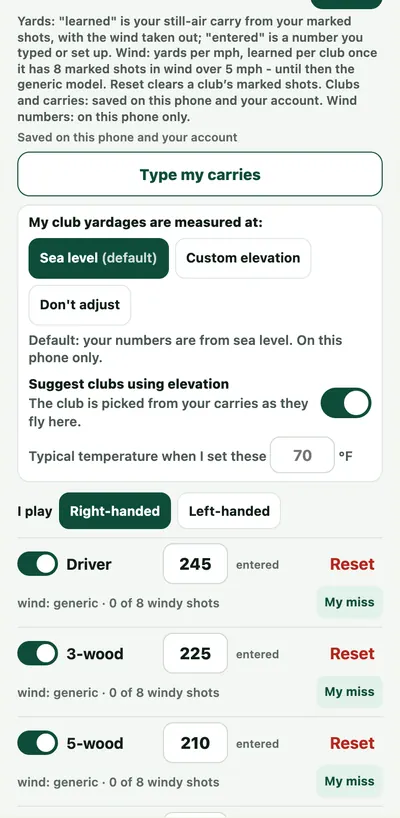
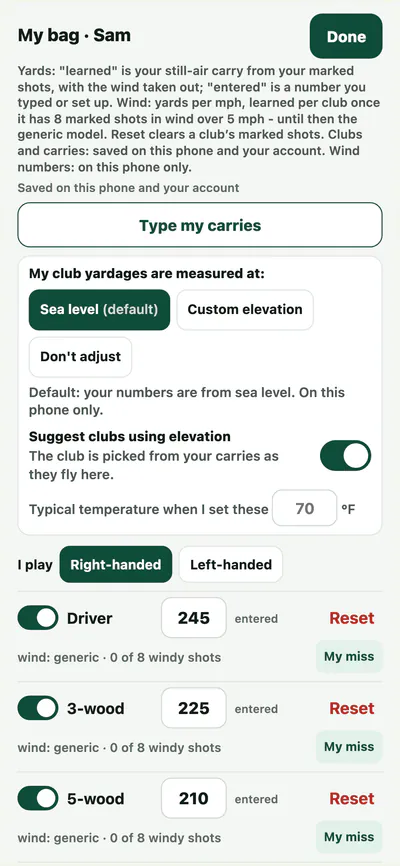
website-e: re-capture four feature-card screens from release-205 (hazards, range, my bag, weekly code)
Four homepage cards showed soft or old screens. Each is now a fresh capture of the
2.0.5 web app code (release-205, 42ec9711) rendered in headless Chrome at 390x844,
deviceScaleFactor 3 (1170x2532), on the repo's own Firebase stand-in and IAP stand-in
(Pro active) - nothing live, no credentials. Demo golfers Sam, Josh, Bob, Paul; no
amounts, no "Test" on screen.

  #3  Play · Know what you can carry.   hazards: the current light Hazards sheet over the
      GPS map (Talking Stick South hole 8, the app's own GolfAPI hazard points; reach /
      carry rows and lay-ups), was the old dark sheet.
  #24 Get better · Practice what costs you.   range: the light Range with Today's drill,
      Range · Sam, three typed 7-iron carries, was the dark sheet.
  #6  Play · Your real carries.   my-bag: My bag · Sam with its title, was cropped below
      "My bag · Test".
  #13 Your group · Same game. Same code. Every week.   weekly-code: Home with the Tuesday
      weekly card at Papago and its join code, sharp, was a 295 px poster.

Each has the two sizes the cards use (<key>-400.webp, <key>-1170.webp); hardpan-home.html
points at them with the new width/height and alt text. The older files stay in
media/screens/ (hazards-786, range-786, my-bag-786, weekly-code-295, and the three old
-400 files as <key>-400-superseded.webp) and nothing serves them; the new
media/screens/manifest.json lists all 25 screens, where the four came from, and marks the
[…]

diff --git a/hardpan-home.html b/hardpan-home.html
@@ -295,7 +295,7 @@
     <div class="grp" id="g-play">
         <div class="ghd"><h2>Play</h2><span class="gn">6 &middot; swipe &rarr;</span><span class="arrows"><button type="button" class="ga" data-dir="-1" aria-label="Play: earlier cards">&lsaquo;</button><button type="button" class="ga" data-dir="1" aria-label="Play: more cards">&rsaquo;</button></span></div>
         <p class="gln">GPS that knows the course, and your clubs.</p>
-        <ul class="row" aria-label="Play features"><li class="fc" id="f-gps" data-key="gps"><div class="cap"><span class="eb">GPS</span> <span class="clipchip">&#9654; clip 0:03</span><h3>Every yard. Every hole.</h3><p>Front, middle and back of every green on a real satellite map.</p></div><button type="button" class="ph" data-open="gps" aria-label="See Every yard. Every hole full screen"><span class="s clipslot"><img src="/media/screens/gps-400.webp" srcset="/media/screens/gps-400.webp 400w, /media/screens/gps-886.webp 886w" sizes="(max-width:700px) 200px, 206px" width="886" height="1920" loading="lazy" decoding="async" alt="The HardPan GPS map on a par 4: 215 yards to the middle of the green, with front and back numbers over the satellite picture."><video muted playsinline preload="none" data-src="/media/clips/gps.mp4" aria-hidden="true"></video><span class="cb">&#9654; 0:03</span></span></button></li><li class="fc" id="f-plays-like" data-key="plays-like"><div class="cap"><span class="eb">PLAYS LIKE</span><h3>Hit the number it plays.</h3><p>Wind and elevation in one yardage, plus an aim tip from your own misses.</p></div><button type="button" class="ph" data-open="plays-like" aria-label="See Hit the number it plays full screen"><span class="s"><img src="/media/screens/plays-like-400.webp" srcset="/media/screens/plays-like-400.webp 400w, /media/screens/plays-like-940.webp 940w" sizes="(max-width:700px) 200px, 206px" width="940" height="2040" loading="lazy" decoding="async" alt="The GPS map on hole 14 at Papago: 150 to the middle, Plays like 155 with an 8-iron, and the aim tip 8 yards left."></span></button></li><li class="fc" id="f-hazards" data-key="hazards"><div class="cap"><span class="eb">HAZARDS</span><h3>Know what you can carry.</h3><p>Reach and carry for every bunker, and where to lay up, from where you stand.</p></div><button type="button" class="ph" data-open="hazards" aria-label="See Know what you can carry full screen"><span class="s"><img src="/media/screens/hazards-400.webp" srcset="/media/screens/hazards-400.webp 400w, /media/screens/hazards-786.webp 786w" sizes="(max-width:700px) 200px, 206px" width="786" height="1704" loading="lazy" decoding="async" alt="The Hazards sheet on hole 10: reach and carry yards for each bunker, and lay-up distances with a club for each."></span></button></li><li class="fc" id="f-best-miss" data-key="best-miss"><div class="cap"><span class="eb">BEST MISS</span><h3>Miss on the right side.</h3><p>Green slope from lidar, and the safe side to miss.</p></div><button type="button" class="ph" data-open="best-miss" aria-label="See Miss on the right side full screen"><span class="s"><img src="/media/screens/best-miss-400.webp" srcset="/media/screens/best-miss-400.webp 400w, /media/screens/best-miss-940.webp 940w" sizes="(max-width:700px) 200px, 206px" width="940" height="2040" loading="lazy" decoding="async" alt="The GPS map on a par 3 with the green’s slope arrows on, and Best miss: short."></span></button></li><li class="fc" id="f-offline" data-key="offline"><div class="cap"><div class="fsoon">COMING SOON · iPHONE 2.0.5</div><span class="eb">OFFLINE MAPS</span><h3>No signal? Still every yard.</h3><p>Save a course before you go. The map works with zero bars.</p></div><button type="button" class="ph" data-open="offline" aria-label="See No signal? Still every yard full screen"><span class="s"><img src="/media/screens/offline-400.webp" srcset="/media/screens/offline-400.webp 400w, /media/screens/offline-780.webp 780w" sizes="(max-width:700px) 200px, 206px" width="780" height="1704" loading="lazy" decoding="async" alt="The course picker with a Download for offline button for Dobson Ranch Golf Course."></span></button></li><li class="fc" id="f-bag" data-key="my-bag"><div class="cap"><span class="eb">MY BAG</span><h3>Your real carries.</h3><p>Type your yardages once. HardPan picks the club from them.</p></div><button type="button" class="ph" data-open="my-bag" aria-label="See Your real carries full screen"><span class="s"><img src="/media/screens/my-bag-400.webp" srcset="/media/screens/my-bag-400.webp 400w, /media/screens/my-bag-786.webp 786w" sizes="(max-width:700px) 200px, 206px" width="786" height="1608" loading="lazy" decoding="async" alt="My bag: a carry yardage for each club, Driver 245, 3-wood 225, 5-wood 210, with a switch to keep each club in the bag."></span></button></li></ul>
+        <ul class="row" aria-label="Play features"><li class="fc" id="f-gps" data-key="gps"><div class="cap"><span class="eb">GPS</span> <span class="clipchip">&#9654; clip 0:03</span><h3>Every yard. Every hole.</h3><p>Front, middle and back of every green on a real satellite map.</p></div><button type="button" class="ph" data-open="gps" aria-label="See Every yard. Every hole full screen"><span class="s clipslot"><img src="/media/screens/gps-400.webp" srcset="/media/screens/gps-400.webp 400w, /media/screens/gps-886.webp 886w" sizes="(max-width:700px) 200px, 206px" width="886" height="1920" loading="lazy" decoding="async" alt="The HardPan GPS map on a par 4: 215 yards to the middle of the green, with front and back numbers over the satellite picture."><video muted playsinline preload="none" data-src="/media/clips/gps.mp4" aria-hidden="true"></video><span class="cb">&#9654; 0:03</span></span></button></li><li class="fc" id="f-plays-like" data-key="plays-like"><div class="cap"><span class="eb">PLAYS LIKE</span><h3>Hit the number it plays.</h3><p>Wind and elevation in one yardage, plus an aim tip from your own misses.</p></div><button type="button" class="ph" data-open="plays-like" aria-label="See Hit the number it plays full screen"><span class="s"><img src="/media/screens/plays-like-400.webp" srcset="/media/screens/plays-like-400.webp 400w, /media/screens/plays-like-940.webp 940w" sizes="(max-width:700px) 200px, 206px" width="940" height="2040" loading="lazy" decoding="async" alt="The GPS map on hole 14 at Papago: 150 to the middle, Plays like 155 with an 8-iron, and the aim tip 8 yards left."></span></button></li><li class="fc" id="f-hazards" data-key="hazards"><div class="cap"><span class="eb">HAZARDS</span><h3>Know what you can carry.</h3><p>Reach and carry for every bunker, and where to lay up, from where you stand.</p></div><button type="button" class="ph" data-open="hazards" aria-label="See Know what you can carry full screen"><span class="s"><img src="/media/screens/hazards-400.webp" srcset="/media/screens/hazards-400.webp 400w, /media/screens/hazards-1170.webp 1170w" sizes="(max-width:700px) 200px, 206px" width="1170" height="2532" loading="lazy" decoding="async" alt="The Hazards sheet on hole 8 at Talking Stick, over the GPS map: reach and carry yards for the fairway bunkers left and right, and lay-up distances with a club for each."></span></button></li><li class="fc" id="f-best-miss" data-key="best-miss"><div class="cap"><span class="eb">BEST MISS</span><h3>Miss on the right side.</h3><p>Green slope from lidar, and the safe side to miss.</p></div><button type="button" class="ph" data-open="best-miss" aria-label="See Miss on the right side full screen"><span class="s"><img src="/media/screens/best-miss-400.webp" srcset="/media/screens/best-miss-400.webp 400w, /media/screens/best-miss-940.webp 940w" sizes="(max-width:700px) 200px, 206px" width="940" height="2040" loading="lazy" decoding="async" alt="The GPS map on a par 3 with the green’s slope arrows on, and Best miss: short."></span></button></li><li class="fc" id="f-offline" data-key="offline"><div class="cap"><div class="fsoon">COMING SOON · iPHONE 2.0.5</div><span class="eb">OFFLINE MAPS</span><h3>No signal? Still every yard.</h3><p>Save a course before you go. The map works with zero bars.</p></div><button type="button" class="ph" data-open="offline" aria-label="See No signal? Still every yard full screen"><span class="s"><img src="/media/screens/offline-400.webp" srcset="/media/screens/offline-400.webp 400w, /media/screens/offline-780.webp 780w" sizes="(max-width:700px) 200px, 206px" width="780" height="1704" loading="lazy" decoding="async" alt="The course picker with a Download for offline button for Dobson Ranch Golf Course."></span></button></li><li class="fc" id="f-bag" data-key="my-bag"><div class="cap"><span class="eb">MY BAG</span><h3>Your real carries.</h3><p>Type your yardages once. HardPan picks the club from them.</p></div><button type="button" class="ph" data-open="my-bag" aria-label="See Your real carries full screen"><span class="s"><img src="/media/screens/my-bag-400.webp" srcset="/media/screens/my-bag-400.webp 400w, /media/screens/my-bag-1170.webp 1170w" sizes="(max-width:700px) 200px, 206px" width="1170" height="2532" loading="lazy" decoding="async" alt="My bag for Sam: a carry yardage for each club, Driver 245, 3-wood 225, 5-wood 210, with a switch to keep each club in the bag and Type my carries."></span></button></li></ul>
         <div class="dots" aria-hidden="true"><i class="on"></i><i></i><i></i><i></i><i></i><i></i></div>
     </div>
     <div class="wrap trywrap"><section class="try" id="try-gps" aria-labelledby="try-gps-h">
@@ -343,7 +343,7 @@
     <div class="grp" id="g-group">
         <div class="ghd"><h2>Your group</h2><span class="gn">5 &middot; swipe &rarr;</span><span class="arrows"><button type="button" class="ga" data-dir="-1" aria-label="Your group: earlier cards">&lsaquo;</button><button type="button" class="ga" data-dir="1" aria-label="Your group: more cards">&rsaquo;</button></span></div>
         <p class="gln">The same friends, week after week.</p>
-        <ul class="row" aria-label="Your group features"><li class="fc" id="f-weekly" data-key="weekly-code"><div class="cap"><span class="eb">WEEKLY GAME</span><h3>Same game. Same code. Every week.</h3><p>Your weekly game keeps one join code and starts in one tap.</p></div><button type="button" class="ph" data-open="weekly-code" aria-label="See Same game. Same code. Every week full screen"><span class="s"><img src="/media/screens/weekly-code-295.webp" srcset="/media/screens/weekly-code-295.webp 295w" sizes="(max-width:700px) 200px, 206px" width="295" height="640" loading="lazy" decoding="async" alt="Home with the Tuesday weekly game at Papago, a Start this week button, and its join code that stays the same every week."></span></button></li><li class="fc" id="f-chat" data-key="chat"><div class="cap"><span class="eb">ROUND CHAT</span><h3>Talk to the round.</h3><p>Chat with your group without leaving the map.</p></div><button type="button" class="ph" data-open="chat" aria-label="See Talk to the round full screen"><span class="s"><img src="/media/screens/chat-400.webp" srcset="/media/screens/chat-400.webp 400w, /media/screens/chat-940.webp 940w" sizes="(max-width:700px) 200px, 206px" width="940" height="2040" loading="lazy" decoding="async" alt="Round chat over the GPS map: messages from Ray, Joe and Marcus, with birdies and the skin on 12 posted in the chat."></span></button></li><li class="fc" id="f-play-again" data-key="play-again"><div class="cap"><span class="eb">PLAY AGAIN</span><h3>Same group? One tap.</h3><p>Start your last group’s round again, right from Home.</p></div><button type="button" class="ph" data-open="play-again" aria-label="See Same group? One tap full screen"><span class="s"><img src="/media/screens/play-again-400.webp" srcset="/media/screens/play-again-400.webp 400w, /media/screens/play-again-786.webp 786w" sizes="(max-width:700px) 200px, 206px" width="786" height="1704" loading="lazy" decoding="async" alt="Home with a Play again card for today at Papago Golf Club and a Start button."></span></button></li><li class="fc" id="f-trip" data-key="trip"><div class="cap"><span class="eb">TRIPS</span><h3>One board for the whole trip.</h3><p>Every day of a golf trip on one leaderboard.</p></div><button type="button" class="ph" data-open="trip" aria-label="See One board for the whole trip full screen"><span class="s"><img src="/media/screens/trip-400.webp" srcset="/media/screens/trip-400.webp 400w, /media/screens/trip-786.webp 786w" sizes="(max-width:700px) 200px, 206px" width="786" height="1704" loading="lazy" decoding="async" alt="The Road Trip page: one leaderboard across every day of a trip, with Start a New Trip and Open Trip."></span></button></li><li class="fc" id="f-history" data-key="history"><div class="cap"><span class="eb">HISTORY</span><h3>Every round you’ve played.</h3><p>Past rounds, scores and results, saved on your phone.</p></div><button type="button" class="ph" data-open="history" aria-label="See Every round you’ve played full screen"><span class="s"><img src="/media/screens/history-400.webp" srcset="/media/screens/history-400.webp 400w, /media/screens/history-786.webp 786w" sizes="(max-width:700px) 200px, 206px" width="786" height="1704" loading="lazy" decoding="async" alt="History: a past round at Dobson Ranch Golf Course with its golfers and final scores."></span></button></li></ul>
+        <ul class="row" aria-label="Your group features"><li class="fc" id="f-weekly" data-key="weekly-code"><div class="cap"><span class="eb">WEEKLY GAME</span><h3>Same game. Same code. Every week.</h3><p>Your weekly game keeps one join code and starts in one tap.</p></div><button type="button" class="ph" data-open="weekly-code" aria-label="See Same game. Same code. Every week full screen"><span class="s"><img src="/media/screens/weekly-code-400.webp" srcset="/media/screens/weekly-code-400.webp 400w, /media/screens/weekly-code-1170.webp 1170w" sizes="(max-width:700px) 200px, 206px" width="1170" height="2532" loading="lazy" decoding="async" alt="Home with the Tuesday weekly game at Papago, a Start this week button, and its join code that stays the same every week."></span></button></li><li class="fc" id="f-chat" data-key="chat"><div class="cap"><span class="eb">ROUND CHAT</span><h3>Talk to the round.</h3><p>Chat with your group without leaving the map.</p></div><button type="button" class="ph" data-open="chat" aria-label="See Talk to the round full screen"><span class="s"><img src="/media/screens/chat-400.webp" srcset="/media/screens/chat-400.webp 400w, /media/screens/chat-940.webp 940w" sizes="(max-width:700px) 200px, 206px" width="940" height="2040" loading="lazy" decoding="async" alt="Round chat over the GPS map: messages from Ray, Joe and Marcus, with birdies and the skin on 12 posted in the chat."></span></button></li><li class="fc" id="f-play-again" data-key="play-again"><div class="cap"><span class="eb">PLAY AGAIN</span><h3>Same group? One tap.</h3><p>Start your last group’s round again, right from Home.</p></div><button type="button" class="ph" data-open="play-again" aria-label="See Same group? One tap full screen"><span class="s"><img src="/media/screens/play-again-400.webp" srcset="/media/screens/play-again-400.webp 400w, /media/screens/play-again-786.webp 786w" sizes="(max-width:700px) 200px, 206px" width="786" height="1704" loading="lazy" decoding="async" alt="Home with a Play again card for today at Papago Golf Club and a Start button."></span></button></li><li class="fc" id="f-trip" data-key="trip"><div class="cap"><span class="eb">TRIPS</span><h3>One board for the whole trip.</h3><p>Every day of a golf trip on one leaderboard.</p></div><button type="button" class="ph" data-open="trip" aria-label="See One board for the whole trip full screen"><span class="s"><img src="/media/screens/trip-400.webp" srcset="/media/screens/trip-400.webp 400w, /media/screens/trip-786.webp 786w" sizes="(max-width:700px) 200px, 206px" width="786" height="1704" loading="lazy" decoding="async" alt="The Road Trip page: one leaderboard across every day of a trip, with Start a New Trip and Open Trip."></span></button></li><li class="fc" id="f-history" data-key="history"><div class="cap"><span class="eb">HISTORY</span><h3>Every round you’ve played.</h3><p>Past rounds, scores and results, saved on your phone.</p></div><button type="button" class="ph" data-open="history" aria-label="See Every round you’ve played full screen"><span class="s"><img src="/media/screens/history-400.webp" srcset="/media/screens/history-400.webp 400w, /media/screens/history-786.webp 786w" sizes="(max-width:700px) 200px, 206px" width="786" height="1704" loading="lazy" decoding="async" alt="History: a past round at Dobson Ranch Golf Course with its golfers and final scores."></span></button></li></ul>
         <div class="dots" aria-hidden="true"><i class="on"></i><i></i><i></i><i></i><i></i></div>
     </div>
     <div class="grp" id="g-organize">
@@ -355,7 +355,7 @@
     <div class="grp" id="g-better">
         <div class="ghd"><h2>Get better</h2><span class="gn">3 &middot; swipe &rarr;</span><span class="arrows"><button type="button" class="ga" data-dir="-1" aria-label="Get better: earlier cards">&lsaquo;</button><button type="button" class="ga" data-dir="1" aria-label="Get better: more cards">&rsaquo;</button></span></div>
         <p class="gln">See where your shots go, then practice that.</p>
-        <ul class="row" aria-label="Get better features"><li class="fc" id="f-strokes-gained" data-key="strokes-gained"><div class="cap"><span class="eb">STROKES GAINED</span><h3>See where shots go.</h3><p>Strokes Gained by area, and a practice card for what cost you most.</p></div><button type="button" class="ph" data-open="strokes-gained" aria-label="See See where shots go full screen"><span class="s"><img src="/media/screens/strokes-gained-400.webp" srcset="/media/screens/strokes-gained-400.webp 400w, /media/screens/strokes-gained-940.webp 940w" sizes="(max-width:700px) 200px, 206px" width="940" height="2040" loading="lazy" decoding="async" alt="My stats: a practice card for putting, and Strokes Gained against a 10 handicap, plus 1.9 shots a round."></span></button></li><li class="fc" id="f-range" data-key="range"><div class="cap"><span class="eb">RANGE</span><h3>Practice what costs you.</h3><p>Today’s drill from your last round, and every ball you mark.</p></div><button type="button" class="ph" data-open="range" aria-label="See Practice what costs you full screen"><span class="s"><img src="/media/screens/range-400.webp" srcset="/media/screens/range-400.webp 400w, /media/screens/range-786.webp 786w" sizes="(max-width:700px) 200px, 206px" width="786" height="1704" loading="lazy" decoding="async" alt="The Range sheet with today’s drill, a distance ladder, and club buttons to mark each ball."></span></button></li><li class="fc" id="f-ask-caddie" data-key="ask-caddie"><div class="cap"><div class="fsoon">COMING SOON</div><span class="eb">ASK CADDIE</span><h3>Ask what it plays.</h3><p>What it plays, what club, and what you hit here last time.</p></div><button type="button" class="ph" data-open="ask-caddie" aria-label="See Ask what it plays full screen"><span class="s fit" style="background:#1c3827"><img src="/media/screens/ask-caddie-400.webp" srcset="/media/screens/ask-caddie-400.webp 400w, /media/screens/ask-caddie-786.webp 786w" sizes="(max-width:700px) 200px, 206px" width="786" height="460" loading="lazy" decoding="async" alt="The Ask panel over the GPS map: What club?, Last time here?, and the answer Plays like 138 yards to the middle of the green."></span></button></li></ul>
+        <ul class="row" aria-label="Get better features"><li class="fc" id="f-strokes-gained" data-key="strokes-gained"><div class="cap"><span class="eb">STROKES GAINED</span><h3>See where shots go.</h3><p>Strokes Gained by area, and a practice card for what cost you most.</p></div><button type="button" class="ph" data-open="strokes-gained" aria-label="See See where shots go full screen"><span class="s"><img src="/media/screens/strokes-gained-400.webp" srcset="/media/screens/strokes-gained-400.webp 400w, /media/screens/strokes-gained-940.webp 940w" sizes="(max-width:700px) 200px, 206px" width="940" height="2040" loading="lazy" decoding="async" alt="My stats: a practice card for putting, and Strokes Gained against a 10 handicap, plus 1.9 shots a round."></span></button></li><li class="fc" id="f-range" data-key="range"><div class="cap"><span class="eb">RANGE</span><h3>Practice what costs you.</h3><p>Today’s drill from your last round, and every ball you mark.</p></div><button type="button" class="ph" data-open="range" aria-label="See Practice what costs you full screen"><span class="s"><img src="/media/screens/range-400.webp" srcset="/media/screens/range-400.webp 400w, /media/screens/range-1170.webp 1170w" sizes="(max-width:700px) 200px, 206px" width="1170" height="2532" loading="lazy" decoding="async" alt="The Range: today’s drill, an approach distance ladder, club buttons, Mark the ball, and this session’s 7-iron shots with their median carry."></span></button></li><li class="fc" id="f-ask-caddie" data-key="ask-caddie"><div class="cap"><div class="fsoon">COMING SOON</div><span class="eb">ASK CADDIE</span><h3>Ask what it plays.</h3><p>What it plays, what club, and what you hit here last time.</p></div><button type="button" class="ph" data-open="ask-caddie" aria-label="See Ask what it plays full screen"><span class="s fit" style="background:#1c3827"><img src="/media/screens/ask-caddie-400.webp" srcset="/media/screens/ask-caddie-400.webp 400w, /media/screens/ask-caddie-786.webp 786w" sizes="(max-width:700px) 200px, 206px" width="786" height="460" loading="lazy" decoding="async" alt="The Ask panel over the GPS map: What club?, Last time here?, and the answer Plays like 138 yards to the middle of the green."></span></button></li></ul>
         <div class="dots" aria-hidden="true"><i class="on"></i><i></i><i></i></div>
     </div>
 </section>

diff --git a/web_e_features_test.js b/web_e_features_test.js
@@ -114,9 +114,40 @@ describe('1. the 25 cards', () => {
             // the old tile ids that tests and links use stay on their feature
         });
         ['f-gps', 'f-say', 'f-group', 'f-games', 'f-results', 'f-tourney', 'f-weekly', 'f-chat', 'f-bag'].forEach((id) => assert.ok(ids.has(id), id + ' is gone'));
-        // a sharp screen: the large size is at least 2x a 390-wide phone's card (and every screen but one is)
+        // a sharp screen: the large size is at least 2x a 390-wide phone's card. RE-CAPTURE re-pin (Nov 10):
+        // every one of the 25 (was 24: the weekly-code card showed a 295 px poster until its re-capture).
         const wide = cards.filter((c) => Number(/\bwidth="(\d+)"/.exec(c.img)[1]) >= 780).length;
-        assert.ok(wide >= 24, 'only ' + wide + ' of 25 screens are 2x or sharper');
+        assert.equal(wide, 25, 'only ' + wide + ' of 25 screens are 2x or sharper');
+    });
+
+    // RE-CAPTURE (Nov 10): hazards, range, my-bag and weekly-code were re-shot from the 2.0.5 web app
+    // (release-205) in headless Chrome at 390x844 @3x - 1170x2532, light sheets, demo golfer Sam. The older
+    // files (a dark sheet, a cropped title, a 295 px poster; the three old -400 files as -400-superseded) stay in
+    // media/screens/ and nothing serves them;
+    // media/screens/manifest.json lists every screen and marks those files superseded.
+    test('the four re-captured screens are the 3x captures; the screens manifest lists all 25 and marks the old files unused', () => {
+        const manifest = JSON.parse(read('media/screens/manifest.json'));
+        assert.equal(manifest.folder, '/media/screens/');
+        assert.equal(manifest.screens.length, 25);
+        assert.deepEqual(manifest.screens.map((s) => s.key), cards.map((c) => c.key), 'the manifest lists the cards in page order');
+        ['hazards', 'range', 'my-bag', 'weekly-code'].forEach((k) => {
+            const c = cards.find((x) => x.key === k);
+            assert.match(c.img, new RegExp('src="/media/screens/' + k + '-400\\.webp" srcset="/media/screens/' + k + '-400\\.webp 400w, /media/screens/' + k + '-1170\\.webp 1170w"'), k + ': not the 400 + 1170 pair');
+            assert.match(c.img, /\bwidth="1170" height="2532"/, k + ': not a 390x844 @3x capture');
+            const m = manifest.screens.find((s) => s.key === k);
+            assert.ok(m && /release-205/.test(m.captured) && m.recaptured, k + ': the manifest does not say where it came from');
+            assert.deepEqual(m.files, ['/media/screens/' + k + '-400.webp', '/media/screens/' + k + '-1170.webp']);
+        });
+        manifest.screens.forEach((s) => s.files.forEach((f) => assert.ok(exists(f.slice(1)), f + ' is missing')));
+        // the superseded files: still here, listed, and served by no page
+        const old = ['/media/screens/hazards-400-superseded.webp', '/media/screens/hazards-786.webp', '/media/screens/my-bag-400-superseded.webp', '/media/screens/my-bag-786.webp', '/media/screens/range-400-superseded.webp', '/media/screens/range-786.webp', '/media/screens/weekly-code-295.webp'];
+        assert.deepEqual(manifest.superseded.map((s) => s.file).sort(), old);
+        manifest.superseded.forEach((s) => { assert.ok(exists(s.file.slice(1)), s.file + ' was deleted'); assert.deepEqual(s.used_on, []); assert.match(s.unused_since, /re-capture/); });
+        const pages = fs.readdirSync(ROOT).filter((f) => f.endsWith('.html')).concat(fs.readdirSync(path.join(ROOT, 'help')).map((f) => 'help/' + f)).filter((f) => f.endsWith('.html'));
+        pages.forEach((f) => old.forEach((o) => assert.ok(!read(f).includes(o), f + ' still serves ' + o)));
+        assert.ok(!/-786\.webp|-295\.webp|-superseded\.webp/.test(read('site-features.js')));
+        // no "Test" golfer, no amount on the captures' alt text (the demo golfers are Sam, Josh, Bob, Paul)
+        ['hazards', 'range', 'my-bag', 'weekly-code'].forEach((k) => { const alt = /\balt="([^"]*)"/.exec(cards.find((x) => x.key === k).img)[1]; assert.doesNotMatch(alt, /\bTest\b|\$/, k); });
     });
 
     test('each card opens the viewer: the screen is a real button with a name', () => {
